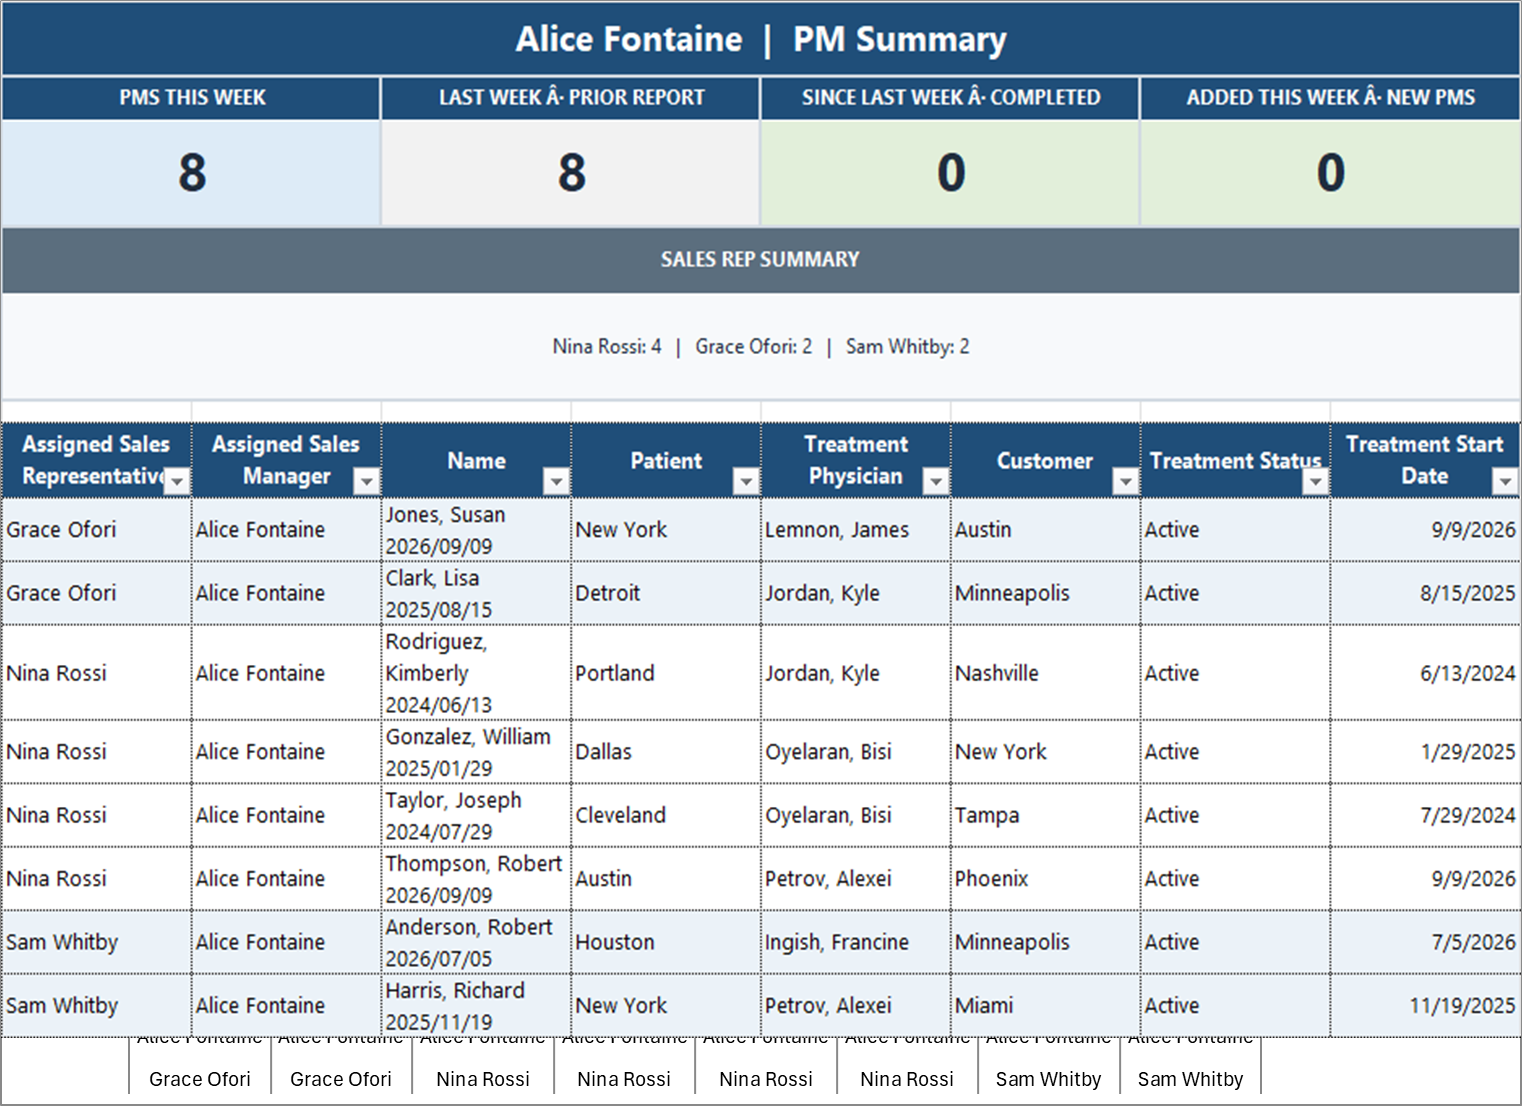
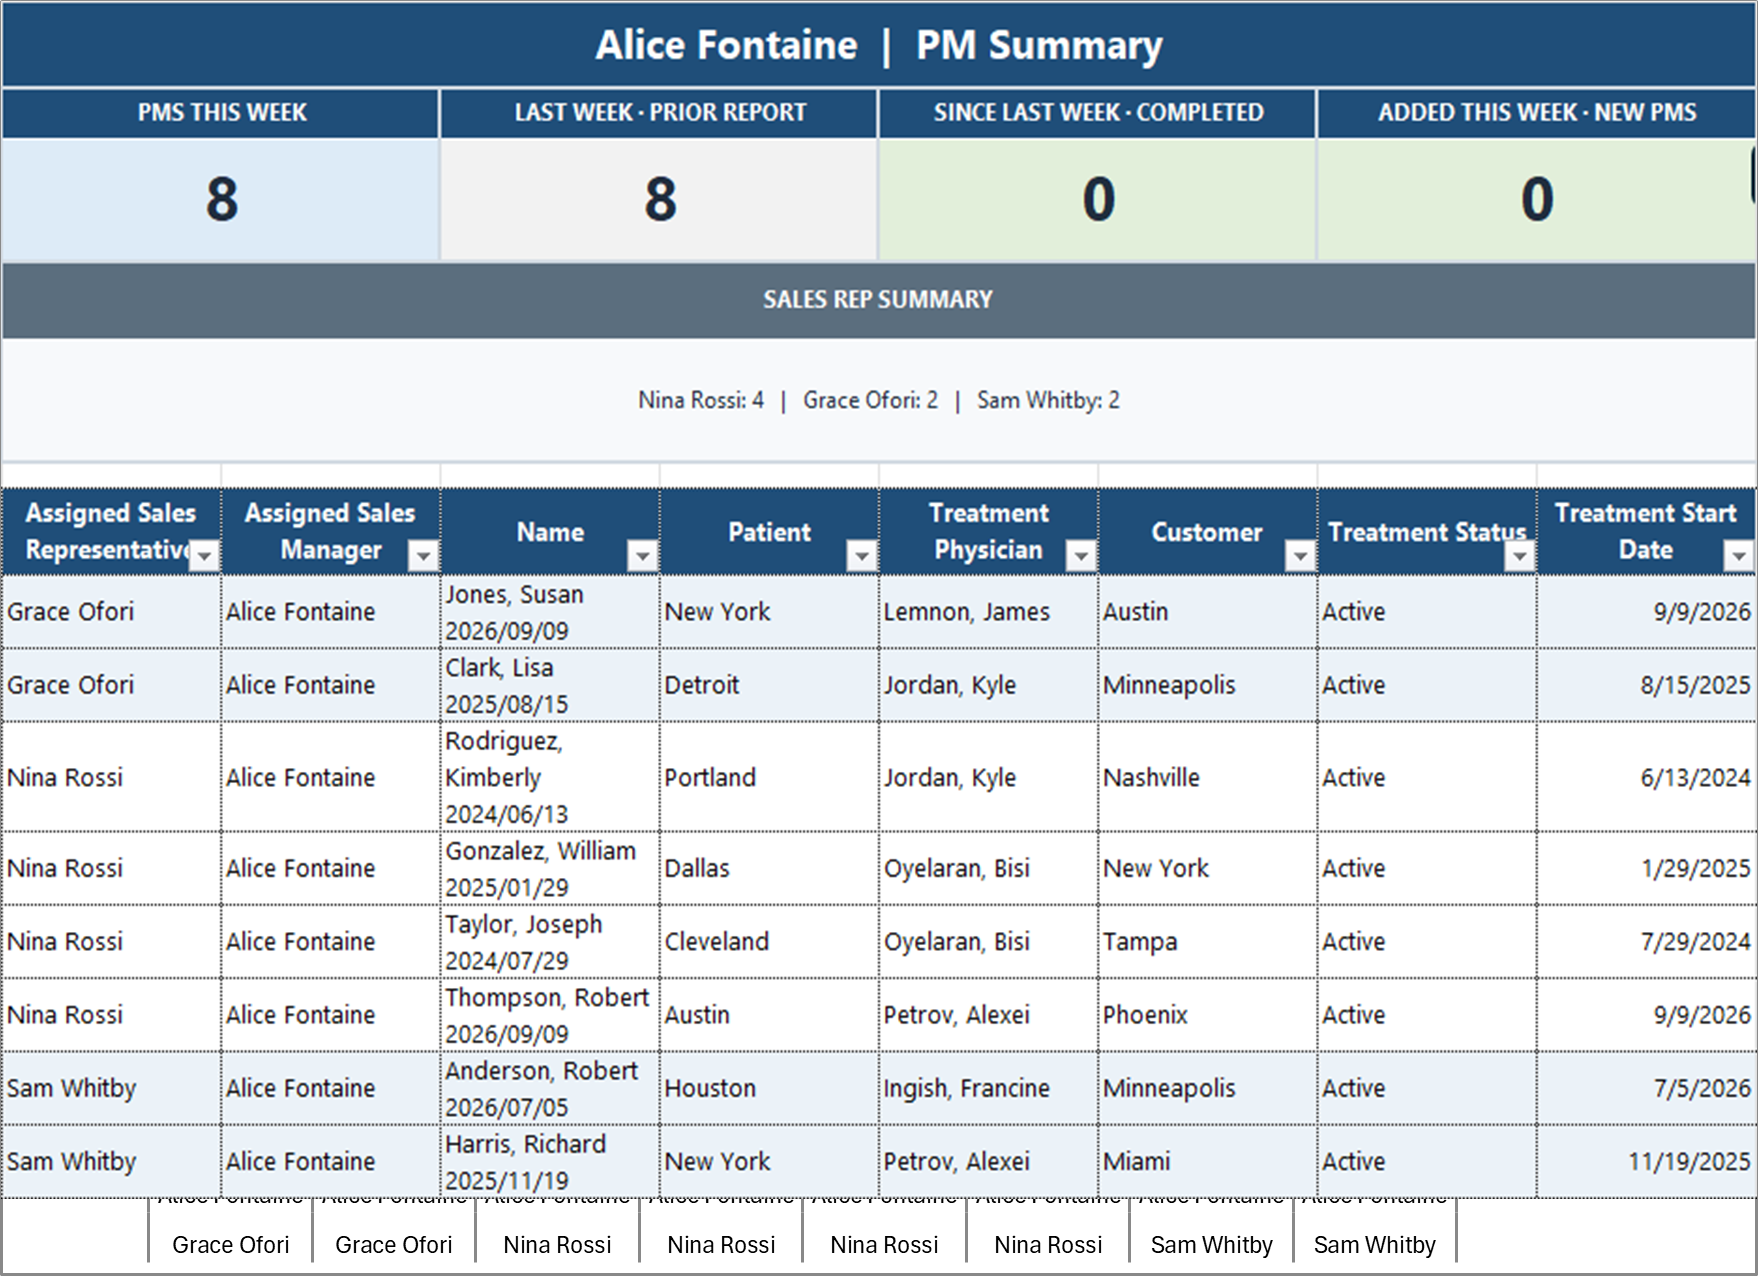
docs: auto-update screenshots and README

diff --git a/scripts/snapshot-report.py b/scripts/snapshot-report.py
@@ -43,10 +43,10 @@ for f in os.listdir(out_folder):
     if f.endswith(".png"):
         os.remove(os.path.join(out_folder, f))
 
-excel = win32com.client.Dispatch("Excel.Application")
-excel.Visible = True
+excel = win32com.client.DispatchEx("Excel.Application")
+excel.Visible = False
 excel.DisplayAlerts = False
-excel.AutomationSecurity = 3
+excel.AutomationSecurity = 1
 
 wb = None
 exported = 0
